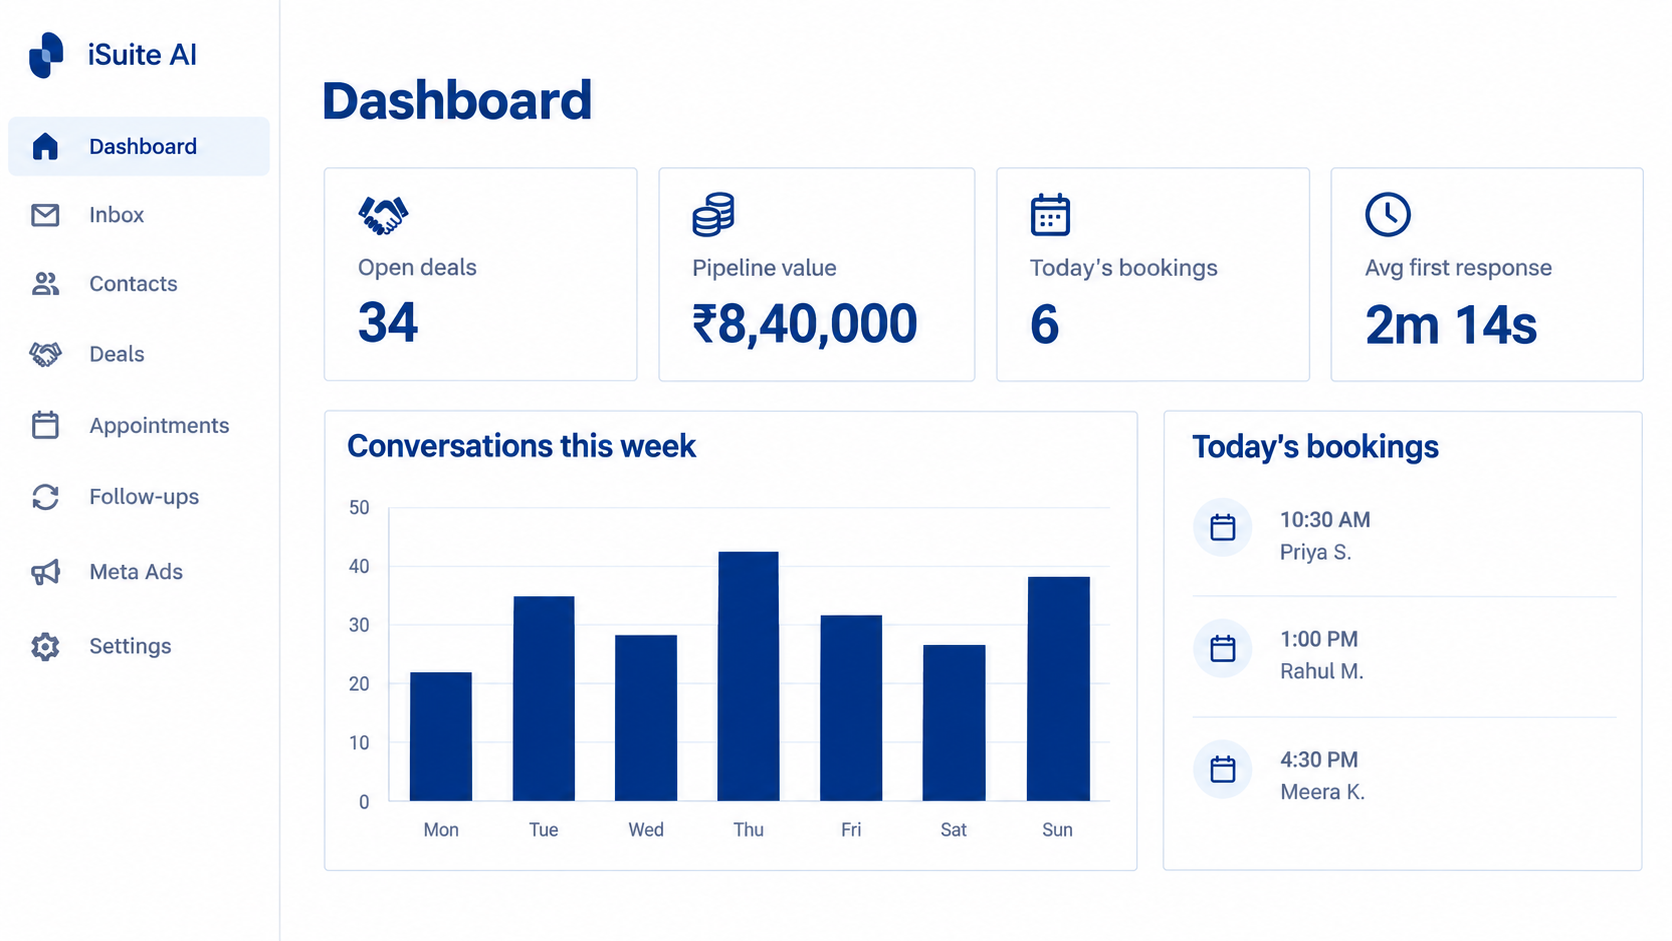
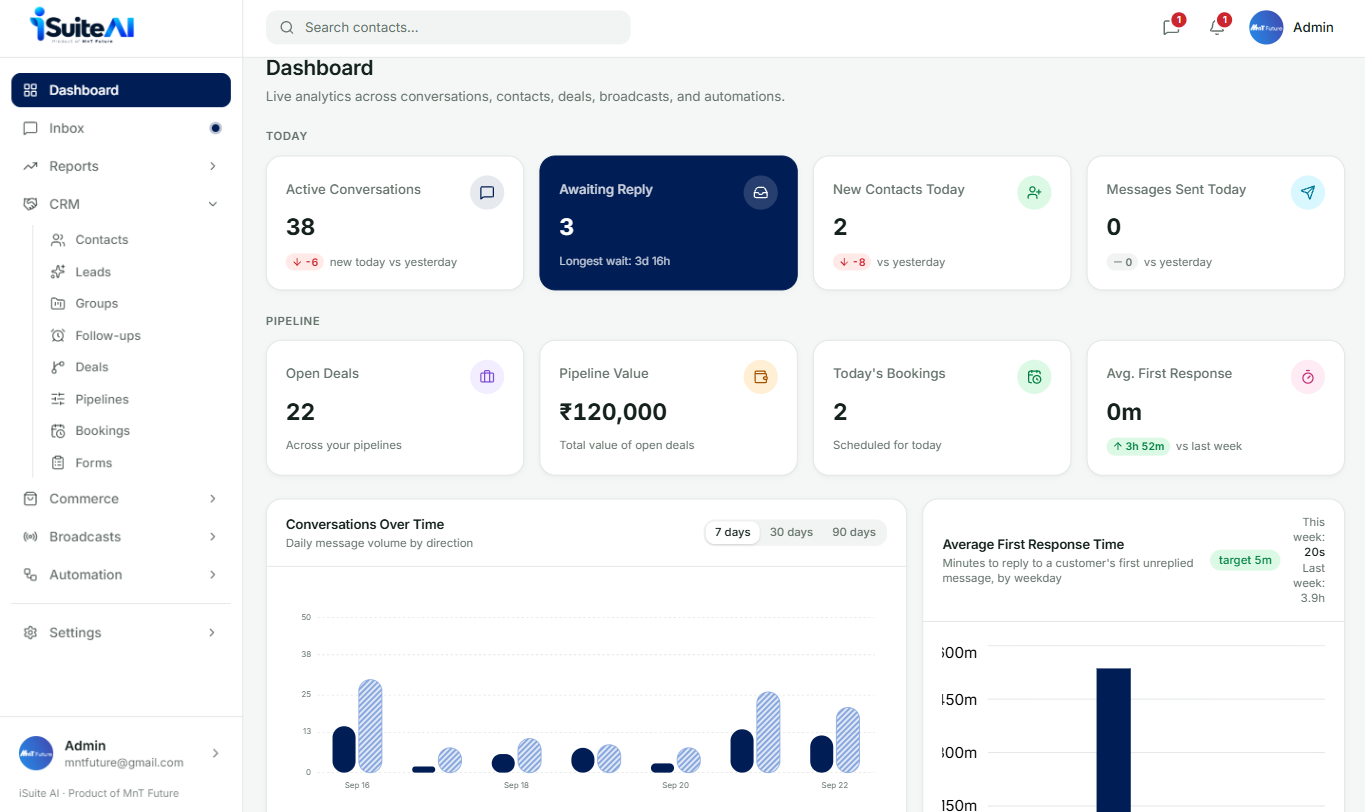
Real screenshots, and stop cropping them
THE SCREENSHOTS ARE REAL NOW. Five of the six product shots are actual
iSuite AI screens rather than AI-generated mocks, redacted by the client:
staff names and addresses replaced with Admin / mntfuture@gmail.com, three
customer mobile numbers removed from the bookings list, and a private CRM
note ("He was driving, need to call back") taken out of the follow-ups.

CHAPTERS 1-3 SHOW DIFFERENT SCREENS THAN THEY DID:

  01  full-inbox.png  the whole inbox - channel rail, conversation list and
                      message pane. Chapter 1 is "Every channel. One
                      screen.", and one thread was never that.
  02  inbox.png       the Tamil conversation, moved down from 01. Chapter 2
                      is "In their language. At 11pm."
  03  bookings.png    the real bookings list, replacing a calendar mock.

SHOTSLOT NO LONGER CROPS, AND THAT IS THE REAL CHANGE HERE. It took a
hand-written `ratio` string - "1912 / 692" - and painted the image into a
box of that shape with objectFit: cover. Cover does not letterbox, it
slices. Three rounds of replacement screenshots each arrived a different
shape, the ratio in the code still described the file before it, and up to
39% went off the sides of chapter 3 with nothing erroring.

So `src` is a static import now, not a string path:

    import bookingsShot from "@/public/shots/bookings.png";

Next opens the file at build time and reads its real width and height, so
[…]

diff --git a/components/sales/ShotSlot.tsx b/components/sales/ShotSlot.tsx
@@ -1,4 +1,4 @@
-import Image from "next/image";
+import Image, { type StaticImageData } from "next/image";
 
 /* ==========================================================================
    A PRODUCT SCREENSHOT, OR THE SPACE ONE WILL OCCUPY
@@ -8,35 +8,104 @@ import Image from "next/image";
    a placeholder that looks finished is a placeholder nobody replaces.
 
    So an empty slot says out loud what belongs there and what the file must be
-   called. It holds the exact height the image will take, so dropping the file
-   in does not move the page.
+   called. It holds a sensible height, so dropping the file in does not shove
+   the page around.
 
-   TO FILL ONE: put the file in public/shots/ under the name printed on the
-   slot, then add `src` to that <ShotSlot> in app/page.tsx. Nothing else
-   changes.
+   THE SHOT IS NEVER CROPPED. This file used to take a `ratio` string written
+   out by hand — "1912 / 692" — and paint the image into a box of that shape
+   with objectFit: cover. That is a trap, and it sprang three times in one
+   afternoon: every replacement screenshot came back a different shape, the
+   hand-written ratio still described the OLD file, and cover silently sliced
+   up to 39% off the sides rather than letterboxing. Nothing errored. The page
+   just quietly showed two thirds of a screenshot.
 
-   next/image, not <img>: these are full-width product screenshots and the
-   difference is large — the logo went from 633KB to 1.2KB through it. `sizes`
-   is set for a shot that is full width on a phone and half the shell beside
-   copy on a desktop.
+   So there is no ratio to keep in sync any more. The image renders at its own
+   proportions, full width, height auto. Whatever shape the file is, that is
+   the shape on the page — a replacement can change the height of a section,
+   which is the honest outcome, and it can never lose an edge.
+
+   `src` IS A STATIC IMPORT, NOT A STRING, and that is what makes it work:
+
+     import bookingsShot from "@/public/shots/bookings.png";
+
+   Next reads the file at BUILD TIME and hands over its real width and height,
+   so the box is measured from the file itself and cannot disagree with it.
+   A string src cannot do this — nothing knows the dimensions until the image
+   has already downloaded, which is why they had to be written out by hand.
+
+   IT ALSO ENDS THE STALE-IMAGE PROBLEM. A static import is emitted to
+   /_next/static/media/<name>.<content hash>.png, so replacing a file changes
+   its URL. With a plain /shots/x.png path the URL never changed, next/image
+   sets a long cache TTL, and browsers kept serving the screenshot they had
+   downloaded hours earlier — including, for a while, the unredacted ones.
+
+   TO FILL ONE: put the file in public/shots/, import it at the top of the
+   page or section, and pass it as `src`. No measuring, no ratio, nothing to
+   update when the file changes shape.
    ========================================================================== */
+
+/* ==========================================================================
+   HOW WIDE EACH SHOT IS ACTUALLY DRAWN
+   --------------------------------------------------------------------------
+   `sizes` has to describe the real slot or the browser fetches the wrong
+   file. It used to be one hardcoded "(min-width: 1024px) 50vw, 100vw" for
+   every shot, wrong in both directions at once: the hero is drawn 1068px and
+   claimed ~720px, so the page's LCP image rendered soft; the founder portrait
+   is drawn 320px and claimed the same ~720px, so phones downloaded several
+   times the pixels they could show.
+
+   Every section is px-5, so 40px comes off the viewport before anything else.
+
+   CHAPTER  max-w-[1100px] · lg:grid-cols-2 · lg:gap-12 (48) · frame p-2.5 -> md:p-3.5
+       phone      100vw - 40 - 20
+       md         100vw - 40 - 28        <- WIDEST it ever gets: 955px at 1023px
+       lg         (100vw - 40 - 48)/2 - 28
+       >= 1140    (1100 - 48)/2 - 28  =  498px
+
+   HERO     max-w-[1100px] · full width · frame p-2.5 -> md:p-4 (16)
+       phone      100vw - 40 - 20
+       md         100vw - 40 - 32
+       >= 1140    1100 - 32           =  1068px
+
+   FOUNDER  max-w-[1000px] · md:grid-cols-[320px_1fr] · no frame
+       phone      100vw - 40             <- 727px at 767px, just before the grid
+       md         320px, flat
+
+   THE md COLUMN IS THE ONE THAT SURPRISES. A chapter shot is WIDER on a
+   tablet (955px) than on a large desktop (498px), because grid-cols-2 is an
+   lg: rule — below it the shot has the whole shell to itself.
+   ========================================================================== */
+
+export const SHOT_SIZES = {
+  chapter:
+    "(min-width: 1140px) 498px, (min-width: 1024px) calc((100vw - 88px) / 2 - 28px), (min-width: 768px) calc(100vw - 68px), calc(100vw - 60px)",
+  hero: "(min-width: 1140px) 1068px, (min-width: 768px) calc(100vw - 72px), calc(100vw - 60px)",
+  founder: "(min-width: 768px) 320px, calc(100vw - 40px)",
+} as const;
 
 export function ShotSlot({
   name,
   file,
   src,
-  /** width / height of the screenshot, so the slot reserves the right box. */
-  ratio = "16 / 10",
+  sizes,
+  cropTo,
+  emptyRatio = "16 / 10",
   priority = false,
   light = false,
 }: {
   /** What is on screen. Printed on an empty slot, and used as alt text. */
   name: string;
-  /** The filename to drop into public/shots/. */
+  /** The filename to drop into public/shots/. Names the empty slot. */
   file: string;
-  /** Set once the file exists. */
-  src?: string;
-  ratio?: string;
+  /** A STATIC IMPORT of the file — see above. Omit for an empty slot. */
+  src?: StaticImageData;
+  /** How wide this shot is actually drawn, per breakpoint. */
+  sizes: string;
+  /** DELIBERATE crop, e.g. "4 / 5" for the founder portrait. Screenshots
+      must never set this — it is how edges got lost in the first place. */
+  cropTo?: string;
+  /** Shape of the dashed placeholder only. Ignored once `src` is set. */
+  emptyRatio?: string;
   priority?: boolean;
   /** Set on a light section — only the EMPTY state cares. */
   light?: boolean;
@@ -46,19 +115,19 @@ export function ShotSlot({
       <Image
         src={src}
         alt={name}
-        width={1600}
-        height={1000}
+        sizes={sizes}
         priority={priority}
-        sizes="(min-width: 1024px) 50vw, 100vw"
-        className="w-full rounded-[14px]"
-        style={{ aspectRatio: ratio, objectFit: "cover" }}
+        className={`w-full rounded-[14px] ${cropTo ? "" : "h-auto"}`}
+        style={
+          cropTo ? { aspectRatio: cropTo, objectFit: "cover" } : undefined
+        }
       />
     );
   }
 
   return (
     <div
-      style={{ aspectRatio: ratio }}
+      style={{ aspectRatio: cropTo ?? emptyRatio }}
       className={`flex w-full max-w-full flex-col items-center justify-center gap-3 rounded-[14px] border-2 border-dashed px-5 text-center ${
         light ? "border-slate/40 bg-white" : "border-amber/35 bg-amber/[0.04]"
       }`}

diff --git a/app/page.tsx b/app/page.tsx
@@ -2,7 +2,14 @@ import { SalesHero } from "@/components/sales/SalesHero";
 import { SalesShowcase } from "@/components/sales/SalesShowcase";
 import { SalesChapter } from "@/components/sales/SalesChapter";
 import { SalesCtaRow } from "@/components/sales/SalesCta";
-import { ShotSlot } from "@/components/sales/ShotSlot";
+import { SHOT_SIZES, ShotSlot } from "@/components/sales/ShotSlot";
+/* Static imports, not string paths: Next reads each file's real size at
+   build time and emits it under a content-hashed url. See ShotSlot. */
+import bookingsShot from "@/public/shots/bookings.png";
+import followupsShot from "@/public/shots/followups.png";
+import fullInboxShot from "@/public/shots/full-inbox.png";
+import inboxShot from "@/public/shots/inbox.png";
+import metaAdsShot from "@/public/shots/meta-ads.png";
 import { SalesOffer } from "@/components/sales/SalesOffer";
 import { SalesFounder } from "@/components/sales/SalesFounder";
 import { SalesModules } from "@/components/sales/SalesModules";
@@ -78,20 +85,38 @@ export default function Page() {
             `flip` swaps which side the screen sits on, so five in a row do
             not march down one column.
 
-            All five files are in public/shots/ and wired below. `ratio`
-            must match the file's own width/height or ShotSlot's objectFit
-            will crop it: 16/9 for the wide screens, 16/10 for the inbox,
-            4/5 for the portrait conversation. */}
+            All five files are in public/shots/ and wired below. THERE IS
+            NO RATIO TO SET any more — each shot renders at its own shape,
+            measured from the file at build time. Three rounds of replacement
+            screenshots each came back a different shape and each time the
+            hand-written ratio still described the file before it, so cover
+            quietly sliced up to 39% off the sides. See ShotSlot.
+
+            THREE SLOTS NOW HOLD A DIFFERENT FILE FROM THE ONE THEY WERE
+            BUILT WITH, because the real screenshots arrived and they are not
+            shaped like the mocks were:
+
+              01  full-inbox.png   the whole inbox - channel list, thread and
+                                   contact panel. Matches "Every channel. One
+                                   screen." far better than a single thread.
+              02  inbox.png        the Tamil thread that used to sit in 01.
+                                   Chapter 2 is "In their language. At 11pm.",
+                                   so the conversation belongs here.
+              03  bookings.png     the real bookings list, not the calendar.
+
+            TWO FILES ARE NOW ORPHANED and referenced by nothing:
+            assistant-reply.png and appointments.png, both AI-generated
+            mocks. Delete them once the real set is signed off. */}
         <SalesChapter
           chapter={salesChapters[0]}
           index={1}
           total={5}
           mock={
             <ShotSlot
-              name="The shared inbox, with all four channels in one list"
-              file="inbox.png"
-              src="/shots/inbox.png"
-              ratio="16 / 10"
+              name="The shared inbox - every channel's conversations in one list"
+              file="full-inbox.png"
+              src={fullInboxShot}
+              sizes={SHOT_SIZES.chapter}
             />
           }
         />
@@ -104,9 +129,9 @@ export default function Page() {
           mock={
             <ShotSlot
               name="A WhatsApp conversation where the assistant replies in Tamil"
-              file="assistant-reply.png"
-              src="/shots/assistant-reply.png"
-              ratio="4 / 5"
+              file="inbox.png"
+              src={inboxShot}
+              sizes={SHOT_SIZES.chapter}
             />
           }
         />
@@ -119,10 +144,10 @@ export default function Page() {
           total={5}
           mock={
             <ShotSlot
-              name="The appointment calendar, with slots and reminders"
-              file="appointments.png"
-              src="/shots/appointments.png"
-              ratio="16 / 9"
+              name="The bookings list - who booked, with whom, and whether they showed"
+              file="bookings.png"
+              src={bookingsShot}
+              sizes={SHOT_SIZES.chapter}
             />
           }
         />
@@ -136,8 +161,8 @@ export default function Page() {
             <ShotSlot
               name="The follow-ups list - due and overdue, with owner names"
               file="followups.png"
-              src="/shots/followups.png"
-              ratio="16 / 9"
+              src={followupsShot}
+              sizes={SHOT_SIZES.chapter}
             />
           }
         />
@@ -150,8 +175,8 @@ export default function Page() {
             <ShotSlot
               name="Meta Ads - spend, leads and won deals in one view"
               file="meta-ads.png"
-              src="/shots/meta-ads.png"
-              ratio="16 / 9"
+              src={metaAdsShot}
+              sizes={SHOT_SIZES.chapter}
             />
           }
         />

diff --git a/components/sales/SalesFounder.tsx b/components/sales/SalesFounder.tsx
@@ -1,5 +1,6 @@
 import { SalesHeading } from "@/components/sales/SalesHeading";
-import { ShotSlot } from "@/components/sales/ShotSlot";
+import { SHOT_SIZES, ShotSlot } from "@/components/sales/ShotSlot";
+import founderShot from "@/public/shots/founder.png";
 import { brandCase } from "@/components/sales/brandCase";
 import { salesFounder } from "@/lib/content";
 import { site } from "@/lib/site";
@@ -63,8 +64,13 @@ export function SalesFounder() {
              does not belong on a page. The client has since confirmed it. */
           name={`${salesFounder.name}, founder of ${site.company}`}
           file="founder.png"
-          src="/shots/founder.png"
-          ratio="4 / 5"
+          src={founderShot}
+          /* THE ONLY DELIBERATE CROP ON THE PAGE. Every screenshot renders
+             at its own shape; this one does not, because the block was built
+             around a portrait box and the photo is very nearly square. See
+             the note below on what the 4/5 crop actually takes. */
+          cropTo="4 / 5"
+          sizes={SHOT_SIZES.founder}
           light
         />
 

diff --git a/components/sales/SalesHero.tsx b/components/sales/SalesHero.tsx
@@ -1,5 +1,6 @@
 import Image from "next/image";
-import { ShotSlot } from "@/components/sales/ShotSlot";
+import { SHOT_SIZES, ShotSlot } from "@/components/sales/ShotSlot";
+import dashboardShot from "@/public/shots/dashboard.png";
 import { SalesCta } from "@/components/sales/SalesCta";
 import { salesCta, salesHero } from "@/lib/content";
 import { site } from "@/lib/site";
@@ -136,8 +137,8 @@ export function SalesHero() {
           <ShotSlot
             name="The dashboard - open deals, pipeline value, today's bookings, first-response time"
             file="dashboard.png"
-            src="/shots/dashboard.png"
-            ratio="16 / 9"
+            src={dashboardShot}
+            sizes={SHOT_SIZES.hero}
             priority
           />
         </div>
